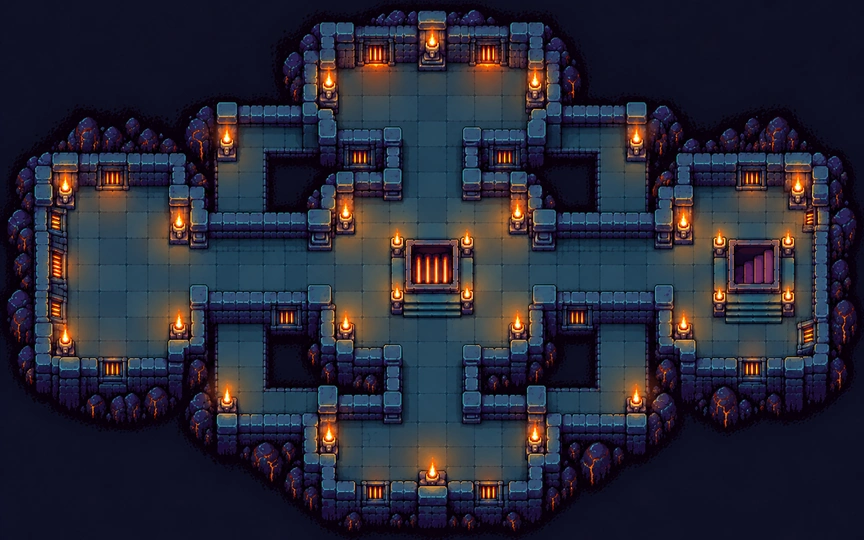
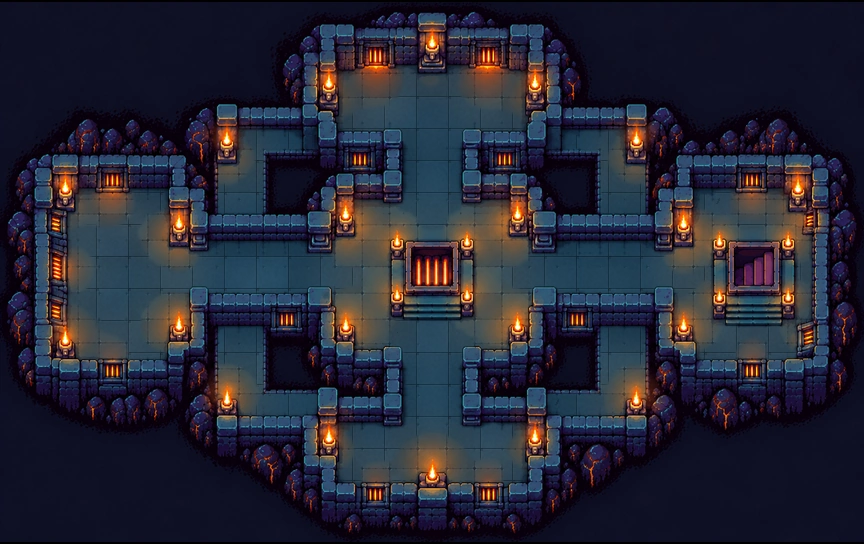
Redraw the floor slabs of all seven pictures on the 32px tile grid
The painted floors had slabs of their own size (about 47px and more), so a step,
a danger ring and a creature never sat on one slab. The floor pixels of each
picture are now found by colour and redrawn with slabs of exactly one tile lined
up with the grid, keeping the original colour and light (torch glow, shade along
the walls). Walls, pillars, torches, runes and stairs are untouched.
scripts/floor-regrid.mjs does it; optimize-maps.mjs applies it with map-patches.

diff --git a/docs/PROJECT.md b/docs/PROJECT.md
@@ -22,7 +22,7 @@
 1. У таборі обираєш, ким спускатися, і скільки флаконів олії купити.
 2. Щоб спуститися, потрібен ключ входу: 50 RF за штуку, спалюється при старті спуску. На новому збереженні є 3 ключі, максимум можна тримати 30 (`MAX_KEYS`; ліміт підняли, щоб великий луп експедиції не пропадав).
 3. Один флакон олії коштує 20 RF і дає 80 світла. Максимум 5 флаконів за спуск. На старті дають 2 000 симульованих RF. Кнопкою можна взяти ще 1 000, теж симуляція.
-4. Спуск, як і лобі, займає весь екран: канва на все вікно, масштаб цілий (підбирається під розмір вікна), камера стежить за персонажем, а HUD (світло, ресурси, зілля, дії, лог, D-pad на телефоні) лежить поверх карти. Поверхи 1–3 на 60% просторіші за решту (34×22 клітин, `BIG_MAP_W`/`BIG_MAP_H`; геометрія перетрасована по намальованих коридорах, предметів і ворогів теж пропорційно більше), поверхи 4–7 мають 27×17 клітин. Кожен поверх має окрему фонову ілюстрацію з `public/maps/` (WebP: поверхи 1–3 — 1088 px завширшки, 4–6 — 864×540, арена 7-го поверху 544×544); туман війни та рух і далі працюють по клітинній сітці. Карти ростуть у складності: 1 — 2 кімнати з широким коридором; 2 — 3 кімнати з боковою гілкою; 3 — 3 кімнати з петлею; 4 — 4 кімнати з центральним вузлом; 5 — 4 кімнати з перехресним проходом; 6 — 5 кімнат навколо центральної зони; 7 — квадратна арена Hollowglass. Від 8-го поверху гра використовує процедурну схему з п’яти кімнат. Візуальна тема змінюється через кожні два поверхи: Catacombs (1–2), Mycelium (3–4), Cinderworks (5–6), Hollowglass (7–8), далі цикл повторюється. Ілюстрація показується через туман війни; персонажі, вороги й лут малюються окремо. Радіус від 1 до 5 клітин: `1 + floor(світло / 25)`, далі його збільшують перки. Менше світла — менше видно.
+4. Спуск, як і лобі, займає весь екран: канва на все вікно, масштаб цілий (підбирається під розмір вікна), камера стежить за персонажем, а HUD (світло, ресурси, зілля, дії, лог, D-pad на телефоні) лежить поверх карти. Поверхи 1–3 на 60% просторіші за решту (34×22 клітин, `BIG_MAP_W`/`BIG_MAP_H`; геометрія перетрасована по намальованих коридорах, предметів і ворогів теж пропорційно більше), поверхи 4–7 мають 27×17 клітин. Кожен поверх має окрему фонову ілюстрацію з `public/maps/` (WebP: поверхи 1–3 — 1088 px завширшки, 4–6 — 864×540, арена 7-го поверху 544×544); туман війни та рух і далі працюють по клітинній сітці. Карти ростуть у складності: 1 — 2 кімнати з широким коридором; 2 — 3 кімнати з боковою гілкою; 3 — 3 кімнати з петлею; 4 — 4 кімнати з центральним вузлом; 5 — 4 кімнати з перехресним проходом; 6 — 5 кімнат навколо центральної зони; 7 — квадратна арена Hollowglass. Від 8-го поверху гра використовує процедурну схему з п’яти кімнат. Візуальна тема змінюється через кожні два поверхи: Catacombs (1–2), Mycelium (3–4), Cinderworks (5–6), Hollowglass (7–8), далі цикл повторюється. Підлога кожної з семи ілюстрацій перемальована на сітці гри: плитки рівно по 32 px лягають на клітинки, тож крок героя, кільце небезпеки й істота завжди стоять на одній плитці (`scripts/floor-regrid.mjs`: підлогу знаходимо за кольором, освітлення беремо з оригіналу, стіни, колони й сходи не чіпаємо). Проходи другого поверху, вужчі за маску, розширено на самому малюнку (`scripts/map-patches.mjs`). Ілюстрація показується через туман війни; персонажі, вороги й лут малюються окремо. Радіус від 1 до 5 клітин: `1 + floor(світло / 25)`, далі його збільшують перки. Менше світла — менше видно.
 5. Кожен крок спалює світло. Вартість кроку на глибині 1–2 дорівнює 1, на 3–4 дорівнює 1.5, далі росте на 0.5 кожні два поверхи. Формула: `1 + floor((глибина - 1) / 2) * 0.5`.
 6. Глибше лут більший: множник = `1 + 0.4 * (глибина - 1)`. Поверх 1 це ×1, поверх 3 це ×1.8, поверх 5 це ×2.6.
 7. На кожному поверсі є розлом (точка входу) і сходи вниз. Зі сходів ідеш глибше. З розлому виходиш і забираєш лут. Щоб вийти з глибокого поверху, треба дійти до розлому цього поверху.

diff --git a/docs/submission/README.md b/docs/submission/README.md
@@ -177,5 +177,5 @@ The rules that matter already live in small pure functions (`splitSpend` and `se
 
 - **Checks run:** `npm test` (185 tests: economy and round settlement, locks and the lock pool, expeditions, fixed Delver supply, creature species and telegraphed attacks (wind-up, dodge, recovery, ward), bigger floors 1-3, Cerberus 2×2 movement/combat/loot, potions, save recovery and multi-tab safety, wallet request ordering, wallet log reads split to fit the RPC's block-range limit, creature sprites and animation, camp and art validation), `npm run typecheck`, `npm run lint` (3 known Fast Refresh warnings in shadcn/ui files), `npm run build`. `npm run economy` regenerates the [economy report](https://github.com/Lazaniaaa/emberdeep-vibeathon/blob/main/docs/economy-report.md). The production build was played end to end in a desktop browser (camp → descent → extraction → report), a creature wind-up was driven in the browser and stepping off the marked rings gave a miss for only the step's light, and the Playwright script `npm run smoke` passed against the production build of this version (Microsoft Edge, desktop and a 390 px phone-size viewport: camp, mint, descent, report, no console errors). The wallet read was also run against the live Robinhood Chain RPC for a holder address (Friends found, sprite read). Locking, staking, maturing, harvesting and breaking a lock were also driven end to end in the browser and the balance reconciled to the RF, and so was a full expedition (mint, send with a pack, countdown, Delver unavailable to descend, collect). An independent code review was done on the build before the creatures and the full-screen descent were added, and its findings were fixed; those later changes are covered by tests and the browser checks above but have not had an independent review.
 - **Not done:** the builder has played the game with a real wallet connected, but on the build before the creatures and the full-screen descent; the current build has not been played with a wallet yet. The phone check is an emulated viewport, not a physical phone.
-- **Known limitations:** game and economy state live in the browser and can be tampered with; a live version would need server-side or on-chain verification of each run before payouts. No live RF spending, real NFT purchases, on-chain payouts or automatic weekly draw (all deliberately simulated). Locks are simulated commitments, not escrow, and the demo lets you fast-forward rounds with a button. An expedition takes 5 seconds in the preview, uses the device clock, and its roll is stored in the browser. Most players will not reach Cerberus on floor 7 without buying extra oil. On the floor 7 arena, one tile of shaded floor along the edges is treated as wall. Progress is stored per browser. The walkable area is traced in whole tiles over painted floors, so on floors 4-7 some passages in the pictures are narrower than the two tiles the delver can use and his sprite can overlap the stone edge there; the passages of floors 1-3 were widened in the pictures (`scripts/map-patches.mjs`).
+- **Known limitations:** game and economy state live in the browser and can be tampered with; a live version would need server-side or on-chain verification of each run before payouts. No live RF spending, real NFT purchases, on-chain payouts or automatic weekly draw (all deliberately simulated). Locks are simulated commitments, not escrow, and the demo lets you fast-forward rounds with a button. An expedition takes 5 seconds in the preview, uses the device clock, and its roll is stored in the browser. Most players will not reach Cerberus on floor 7 without buying extra oil. On the floor 7 arena, one tile of shaded floor along the edges is treated as wall. Progress is stored per browser. The walkable area is traced in whole tiles over painted floors, so on floors 4-7 some passages in the pictures are narrower than the two tiles the delver can use and his sprite can overlap the stone edge there; the passages of floor 2 were widened in the picture (`scripts/map-patches.mjs`). The floor slabs of all seven pictures are redrawn on the game's 32px tile grid (`scripts/floor-regrid.mjs`), so a step, a danger ring and a creature each sit on exactly one slab.
 - **Credits:** see [NOTICE.md](https://github.com/Lazaniaaa/emberdeep-vibeathon/blob/main/NOTICE.md). Wallet reading adapts helpers from [FriendSDK](https://github.com/spokesz/friendsdk) (Apache-2.0). Rare Friends artwork belongs to Rare Friends. Production publication would need separate Rare Friends review.

diff --git a/README.md b/README.md
@@ -275,7 +275,7 @@ npm test           # economy, dungeon, run rules and balance sim
 npm run typecheck
 npm run lint
 npm run build      # static site in dist/ (relative paths, host anywhere)
-node scripts/optimize-maps.mjs  # rebuild public/maps/*.webp from the originals in art-src/maps (applies scripts/map-patches.mjs)
+node scripts/optimize-maps.mjs  # rebuild public/maps/*.webp from the originals in art-src/maps (applies scripts/map-patches.mjs and redraws the floors on the tile grid with scripts/floor-regrid.mjs)
 npm run economy    # regenerate docs/economy-report.md (about a minute, deterministic)
 npm run smoke      # headless browser pass; needs `npx playwright install chromium` and a running dev server
 ```
